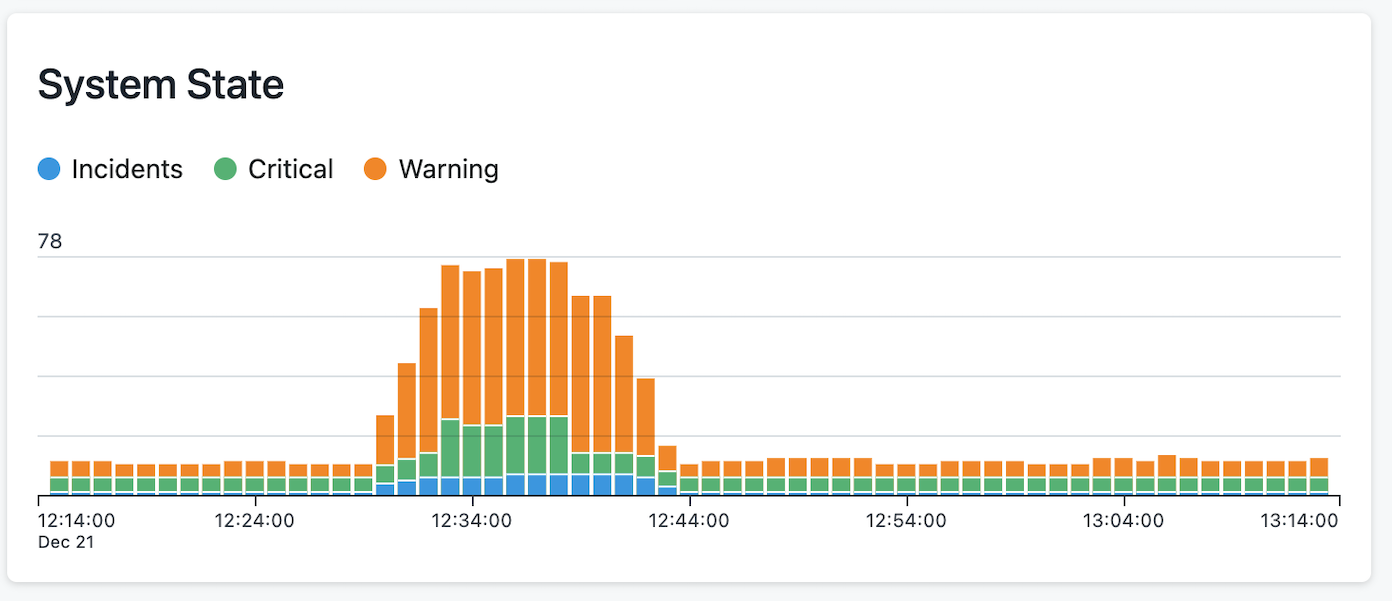
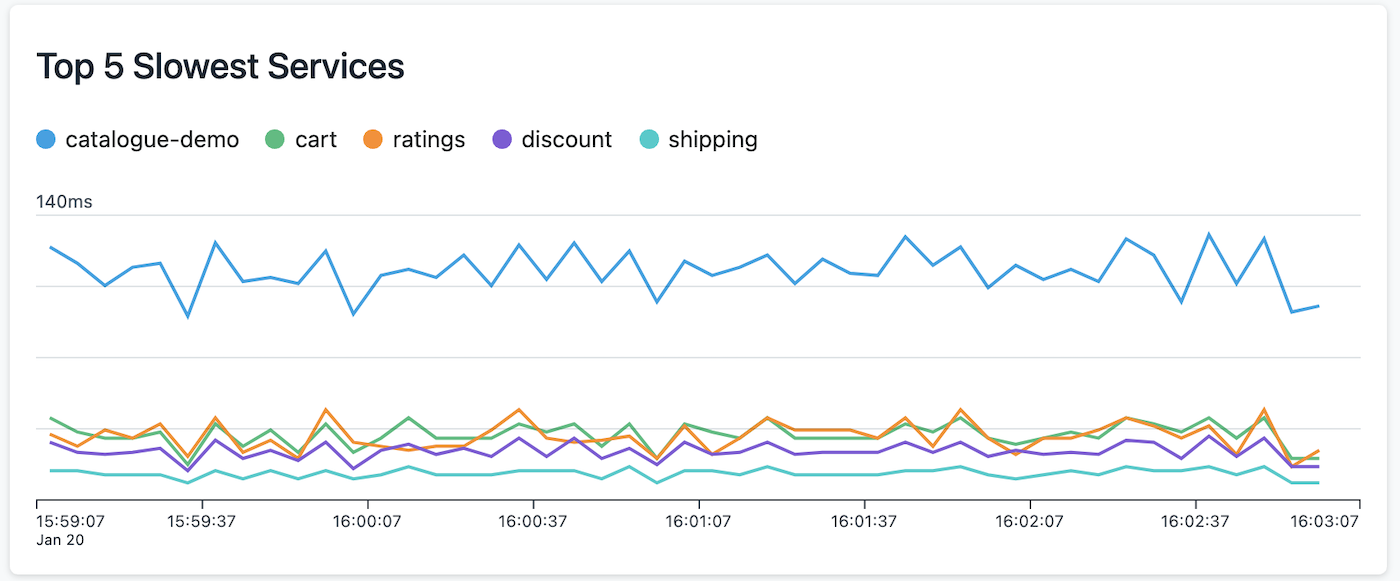
Updated the showcase images (#5024)
* Updated the showcase images

* Updated the images

* Updated the images with proper coloring and data

* Added key to the showcase image to avoid displaying old image temporarly

diff --git a/packages/in-custom-dashboards/CustomDashboard/WidgetEditorDialog/WidgetTypeSelector/WidgetTypeSelector.js b/packages/in-custom-dashboards/CustomDashboard/WidgetEditorDialog/WidgetTypeSelector/WidgetTypeSelector.js
@@ -18,7 +18,12 @@ export default function WidgetTypeSelector({ form, onChangeType }) {
     <SideNavigationWrapper sidebar={<WidgetTypeSidebar form={form} onChangeType={onChangeType} />}>
       {widget && widget.showCase && (
         <div className={locals.wrapper}>
-          <img className={locals.img} src={widget.showCase} alt={`Show case of the ${widget.label} widget`} />
+          <img
+            className={locals.img}
+            src={widget.showCase}
+            alt={`Show case of the ${widget.label} widget`}
+            key={selectedType} // Added to notify react about the image has changed to avoid from displaying old image
+          />
         </div>
       )}
     </SideNavigationWrapper>
